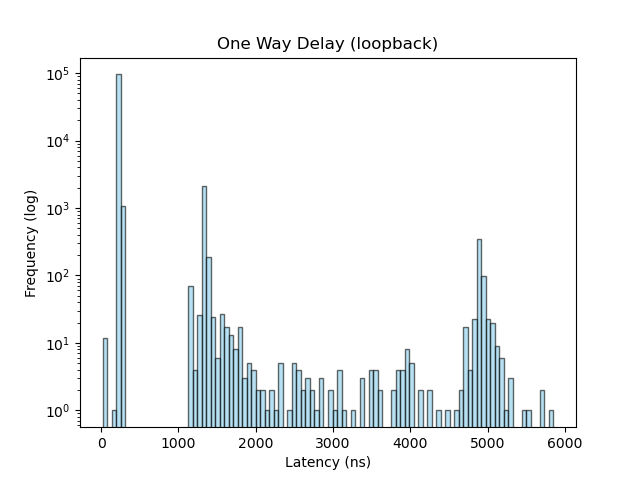
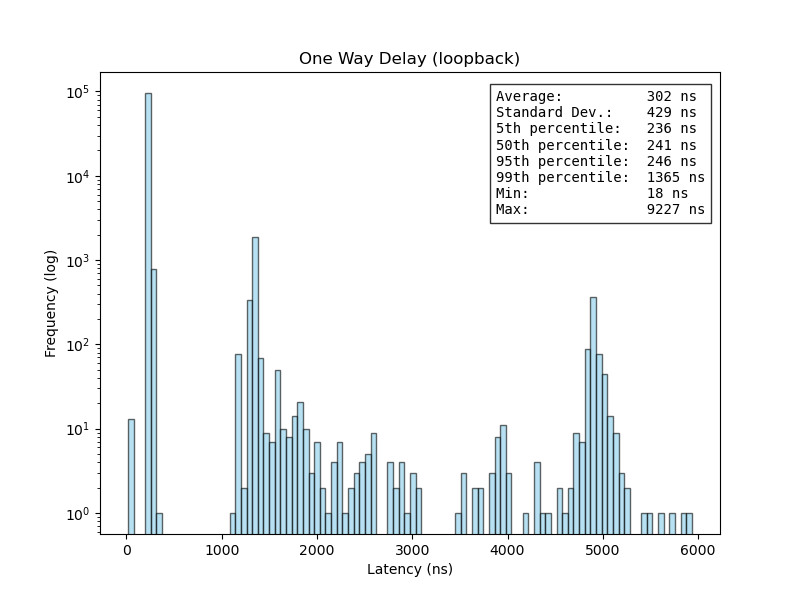
put stats in figures

diff --git a/utils/measure_loopback_latency.py b/utils/measure_loopback_latency.py
@@ -87,35 +87,47 @@ def main():
     min = numpy.min(latencies)
     max = numpy.max(latencies)
 
+    stats = f"Average:          {avg:.0f} ns\n" \
+          + f"Standard Dev.:    {std:.0f} ns\n" \
+          + f"5th percentile:   {p5:.0f} ns\n" \
+          + f"50th percentile:  {p50:.0f} ns\n" \
+          + f"95th percentile:  {p95:.0f} ns\n" \
+          + f"99th percentile:  {p99:.0f} ns\n" \
+          + f"Min:              {min:.0f} ns\n" \
+          + f"Max:              {max:.0f} ns"
+
     print("====== Latency results ======")
-    print(f"Average:          {avg:.0f} ns")
-    print(f"Standard Dev.:    {std:.0f} ns")
-    print(f"5th percentile:   {p5:.0f} ns")
-    print(f"50th percentile:  {p50:.0f} ns")
-    print(f"95th percentile:  {p95:.0f} ns")
-    print(f"99th percentile:  {p99:.0f} ns")
-    print(f"Min:              {min:.0f} ns")
-    print(f"Max:              {max:.0f} ns")
+    print(stats)
 
 
     x = numpy.arange(len(latencies))
-    plt.figure()
+    fig = plt.figure(figsize=(8, 6))
     plt.scatter(x, latencies, color='b', s=1)
     plt.title("One Way Delay (loopback)")
     plt.xlabel("Sequence Number")
     plt.ylabel("Latency (ns)")
     plt.axis("tight")
+    plt.text(0.62, 0.85, stats, transform=fig.transFigure, fontfamily='monospace',
+        verticalalignment='top',
+        horizontalalignment='left',
+        bbox=dict(facecolor='white', alpha=0.8)
+    )
     plt.savefig("loopback_timeseries.png")
 
     sorted_latencies = numpy.sort(latencies)
     filtered_latencies = sorted_latencies[sorted_latencies < 6000]
-    plt.figure()
+    fig = plt.figure(figsize=(8, 6))
     plt.hist(filtered_latencies, bins=100, color='skyblue', edgecolor='black', alpha=0.6)
     plt.yscale('log')
     plt.title("One Way Delay (loopback)")
     plt.xlabel("Latency (ns)")
     plt.ylabel("Frequency (log)")
     plt.axis("tight")
+    plt.text(0.62, 0.85, stats, transform=fig.transFigure, fontfamily='monospace',
+        verticalalignment='top',
+        horizontalalignment='left',
+        bbox=dict(facecolor='white', alpha=0.8)
+    )
     plt.savefig("loopback_distribution.png")
 
 
@@ -150,6 +162,7 @@ def gen_ptp_packet():
 
 
 def enable_hardware_timestamp(interface):
+    # alternatively run hwstamp_ctl -i <interface> -t 1 -r 1
     config = HWTSTAMP_CONFIG()
     config.flags = 0
     config.tx_type = HWTSTAMP_TX_ON

diff --git a/README.md b/README.md
@@ -63,17 +63,7 @@ To use this script, edit the `INTERFACE1` and `INTERFACE2` constants to match th
 ### Loopback delay results
 
 These are the results form my test setup:
-```
-====== Latency results ======
-Average:          299 ns
-Standard Dev.:    409 ns
-5th percentile:   236 ns
-50th percentile:  241 ns
-95th percentile:  246 ns
-99th percentile:  1356 ns
-Min:              18 ns
-Max:              9199 ns
-```
+
 ![lbplot](loopback_timeseries.png)
 
 ![histplot](loopback_distribution.png)
